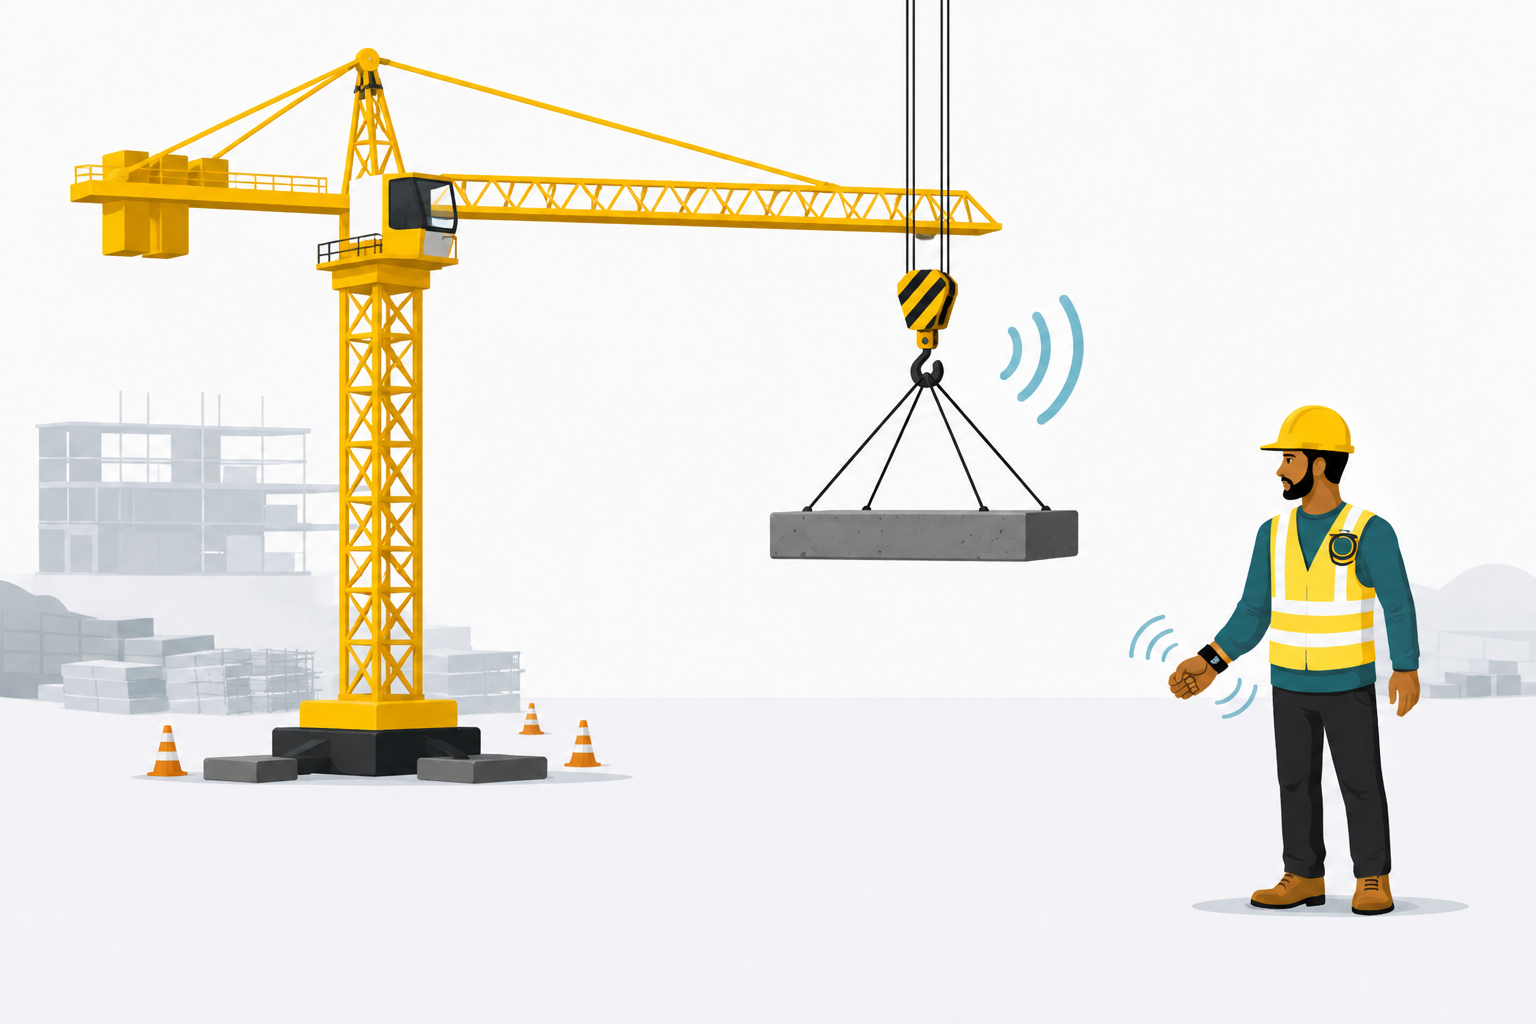
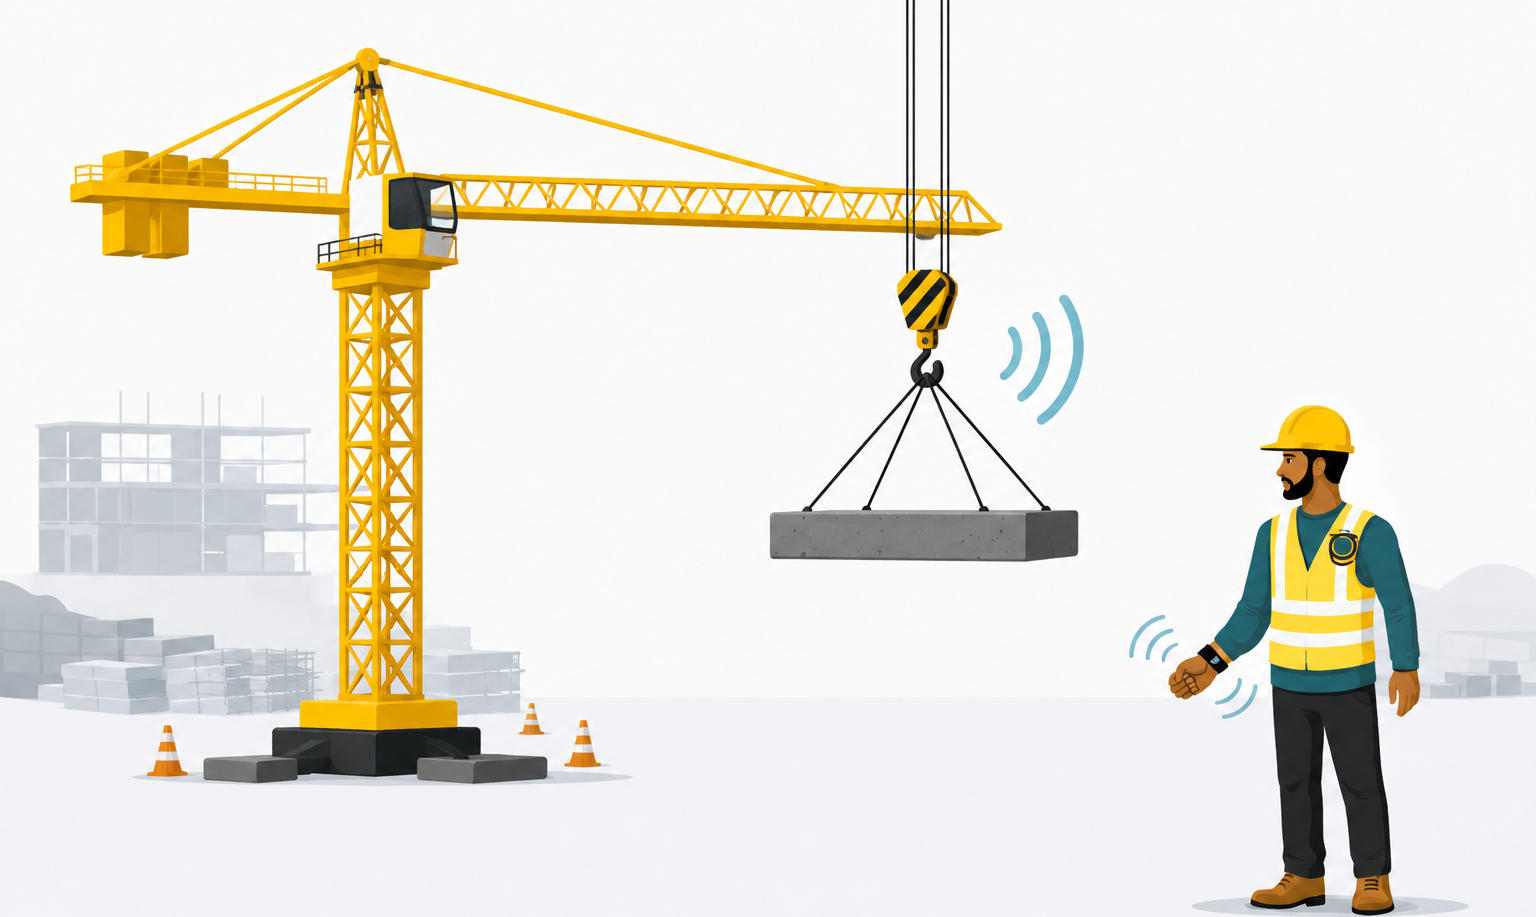
Fit solution images to frames without letterboxing.
Size frames to image aspect ratio, trim excess margins, and cache-bust asset URLs.

Changed region(s): [[0.0, 0.0305, 0.7188, 0.855], [0.7188, 0.3969, 1.0, 1.0]]

diff --git a/index.html b/index.html
@@ -576,25 +576,24 @@
             gap: 14px;
             max-width: 920px;
             margin: 20px auto;
-            align-items: stretch;
+            align-items: start;
         }
         .solution-figs .section-fig-wrap.framed {
             max-width: 100%;
             margin: 0;
-            padding: 10px;
-            display: flex;
-            align-items: center;
-            justify-content: center;
-            height: clamp(180px, 22vw, 240px);
-            min-height: 0;
+            padding: 0;
+            display: block;
+            height: auto;
+            overflow: hidden;
         }
-        .solution-figs .section-fig {
+        .solution-figs .section-fig-wrap.framed .section-fig {
             width: 100%;
-            height: 100%;
-            max-width: 100%;
-            max-height: 100%;
-            object-fit: contain;
+            height: auto;
+            display: block;
+            margin: 0;
+            border-radius: 0;
             box-shadow: none;
+            vertical-align: top;
         }
         @media (max-width: 640px) {
             .solution-figs { grid-template-columns: 1fr; }
@@ -762,13 +761,13 @@
                 <p class="section-lead" data-i18n="sol_lead">GenbaSense turns site movement into real-time safety—by detecting proximity, alerting with haptics, and analyzing patterns for continuous improvement.</p>
                 <div class="solution-figs">
                     <div class="section-fig-wrap framed">
-                        <img src="imgs/crane_UWB_expl.png" alt="Crane UWB explanation – GenbaSense safety" class="section-fig">
+                        <img src="imgs/crane_UWB_expl.png?v=3" alt="Crane UWB explanation – GenbaSense safety" class="section-fig">
                     </div>
                     <div class="section-fig-wrap framed">
-                        <img src="imgs/crane_cabin_view.png" alt="Crane cabin view" class="section-fig">
+                        <img src="imgs/crane_cabin_view.png?v=3" alt="Crane cabin view" class="section-fig">
                     </div>
                     <div class="section-fig-wrap framed">
-                        <img src="imgs/mvp_1.jpg" alt="GenbaSense wearable MVP – UWB proximity device" class="section-fig">
+                        <img src="imgs/mvp_1.jpg?v=3" alt="GenbaSense wearable MVP – UWB proximity device" class="section-fig">
                     </div>
                 </div>
                 <div class="steps">
